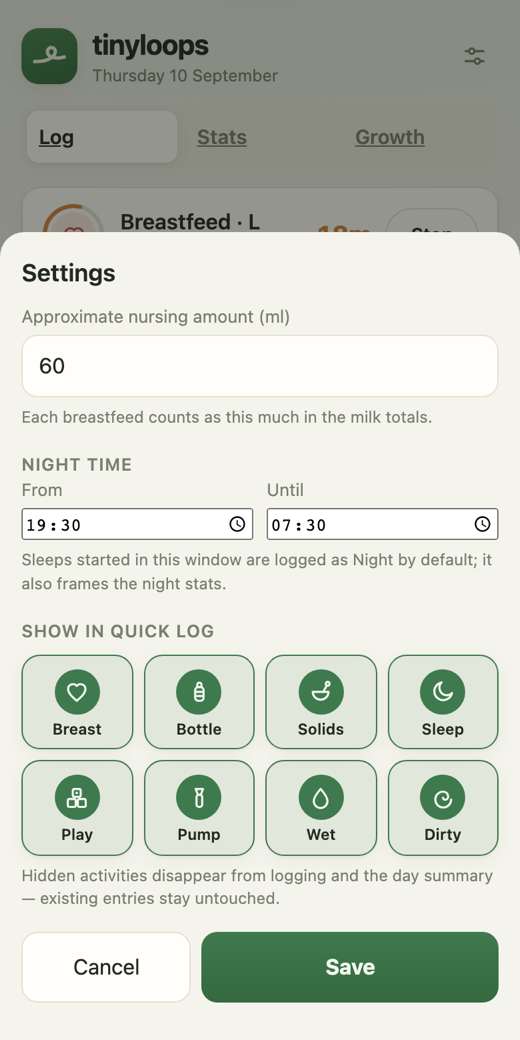
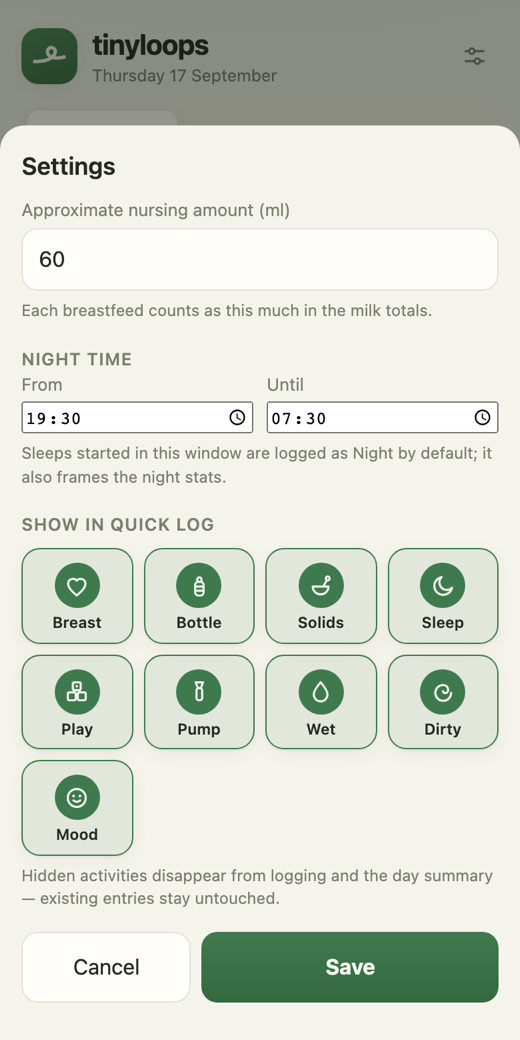
mood feature

diff --git a/server/views.js b/server/views.js
@@ -20,6 +20,14 @@ export const TYPES = {
   pump:   { label: 'Pump',              short: 'Pump',    emoji: '🥛', timed: false },
   wet:    { label: 'Wet nappy',         short: 'Wet',     emoji: '💧', timed: false },
   dirty:  { label: 'Dirty nappy',       short: 'Dirty',   emoji: '💩', timed: false },
+  mood:   { label: 'Day mood',          short: 'Mood',    emoji: '😊', timed: false },
+};
+
+// how the day went, entered once towards bedtime; side carries the verdict
+export const MOODS = {
+  good:  { emoji: '😊', word: 'a good day' },
+  mixed: { emoji: '😐', word: 'a mixed day' },
+  bad:   { emoji: '😞', word: 'a hard day' },
 };
 const ALL_TYPES = Object.keys(TYPES);
 
@@ -142,6 +150,8 @@ function eventDetails(e) {
   } else if (e.type === 'sleep') {
     // naps are the unmarked default — only 'night' is worth a word
     if (e.side === 'night') parts.push('night');
+  } else if (e.type === 'mood') {
+    if (MOODS[e.side]) parts.push(`${MOODS[e.side].emoji} ${MOODS[e.side].word}`);
   } else if (e.side) parts.push(sideName(e.side));
   if (e.type === 'bottle') {
     if (e.amountMl) parts.push(`${e.amountMl}ml milk`);
@@ -355,7 +365,23 @@ function summaryRows(events, s, en, assumedMl, nowWall, isToday) {
       [(wet || dirty) ? `${wet} wet · ${dirty} dirty` : '']);
   }
 
+  // how the day went — newest mood entry of the day wins (events are
+  // newest-first), so a corrected verdict overrides the earlier one
+  const mood = of('mood').find((e) => MOODS[e.side]);
+  if (mood) {
+    pushRow('mood', '😊', 'Day mood', '',
+      [`${MOODS[mood.side].emoji} ${MOODS[mood.side].word}`, mood.notes || '']);
+  }
+
   return rows;
+}
+
+/** The newest mood verdict logged for the day starting at `s`, as its
+ *  emoji — what the band rows show at their right edge. */
+function dayMood(events, s) {
+  const e = events.find((x) => x.type === 'mood' && MOODS[x.side] &&
+    x.startWall != null && x.startWall >= s && x.startWall < s + MS_PER_DAY);
+  return e ? MOODS[e.side].emoji : null;
 }
 
 function buildSummary(events, settings, nowWall) {
@@ -386,6 +412,7 @@ function buildSummary(events, settings, nowWall) {
       date: wallMsToDate(s),
       name: fmtDay(s, nowWall),
       today: i === 0,
+      mood: dayMood(events, s),
       ...(i > 0 && { rows: summaryRows(events, s, en, assumedMl, nowWall, false) }),
     });
   }
@@ -607,6 +634,7 @@ export function buildRhythm(events, settings, nowWall, fromWall, toWall) {
       spans: sleepSegments(events, s, s + MS_PER_DAY, nowWall),
       feeds: feedMinutes(events, s, s + MS_PER_DAY),
       today: s === today,
+      mood: dayMood(events, s),
     });
   }
   // hide the bands when the picked range holds nothing to draw

diff --git a/web/src/components/QuickLog.jsx b/web/src/components/QuickLog.jsx
@@ -1,6 +1,6 @@
 import { useEffect, useState } from 'react';
 import { api, localNowIso } from '../api.js';
-import { SideSeg, EatenSeg, SleepSeg } from './SideSeg.jsx';
+import { SideSeg, EatenSeg, SleepSeg, MoodSeg } from './SideSeg.jsx';
 import { IconChip } from './icons.jsx';
 
 const numOrNull = (v) => (v.trim() === '' ? null : Number(v));
@@ -19,6 +19,7 @@ export function QuickLog({ home, run, onError, onLogged }) {
   const [eaten, setEaten] = useState('');
   const [sleepKind, setSleepKind] = useState(''); // '' = nap
   const [sleepKindTouched, setSleepKindTouched] = useState(false);
+  const [mood, setMood] = useState('');
   const [foods, setFoods] = useState(() => new Set());
   const [allFoods, setAllFoods] = useState(false);
   const [bottleBm, setBottleBm] = useState('');
@@ -68,7 +69,7 @@ export function QuickLog({ home, run, onError, onLogged }) {
 
   function reset() {
     setSide(''); setSideTouched(false); setEaten('');
-    setSleepKind(''); setSleepKindTouched(false);
+    setSleepKind(''); setSleepKindTouched(false); setMood('');
     setFoods(new Set()); setAllFoods(false);
     setBottleBm(''); setBottleF(''); setAmount(''); setNotes('');
     setEarlier(false); setStartInput(''); setDurInput('');
@@ -78,6 +79,10 @@ export function QuickLog({ home, run, onError, onLogged }) {
     const p = { type, notes: notes.trim() };
     if (type === 'feed') p.side = side;
     if (type === 'sleep') p.side = sleepKind;
+    if (type === 'mood') {
+      if (!mood) return onError('How was the day — good, mixed or hard?');
+      p.side = mood;
+    }
     if (type === 'solid') {
       p.side = eaten;
       // chips + anything typed → the same comma-separated food string
@@ -148,6 +153,13 @@ export function QuickLog({ home, run, onError, onLogged }) {
         </>
       )}
 
+      {type === 'mood' && (
+        <>
+          <div className="side-hint">How was the baby’s day?</div>
+          <MoodSeg value={mood} onChange={setMood} />
+        </>
+      )}
+
       {type === 'bottle' && (
         <div>
           <label className="f">Breast milk (ml)
@@ -211,8 +223,8 @@ export function QuickLog({ home, run, onError, onLogged }) {
       )}
 
       <input type="text" value={notes}
-        placeholder={type === 'solid'
-          ? 'Something else? e.g. mango' : 'Notes (optional)'}
+        placeholder={type === 'solid' ? 'Something else? e.g. mango'
+          : type === 'mood' ? 'What made it so? (optional)' : 'Notes (optional)'}
         onChange={(e) => setNotes(e.target.value)} />
       <button id="goBtn" className="primary" disabled={busy} onClick={submit}>
         {busy ? 'Saving…' : goLabel}

diff --git a/test/views.test.js b/test/views.test.js
@@ -496,3 +496,36 @@ describe('buildExplore empty state', () => {
     expect(off.note).toBe(null);
   });
 });
+
+describe('day mood', () => {
+  it('validates its own vocabulary', async () => {
+    const { eventParams } = await import('../server/validate.js');
+    expect(eventParams({ type: 'mood', start: '2026-08-29T21:00', side: 'good' }).side).toBe('good');
+    expect(eventParams({ type: 'mood', start: '2026-08-29T21:00', side: 'L' }).side).toBe('');
+  });
+
+  it('shows in the summary rows and marks band days with its emoji', () => {
+    const { summary } = buildHome(newestFirst([
+      ev('mood', '2026-08-29T13:50', { side: 'mixed', notes: 'teething' }),
+      ev('mood', '2026-08-29T13:00', { side: 'good' }), // corrected → newest wins
+      ev('mood', '2026-08-28T21:00', { side: 'bad' }),
+      ev('sleep', '2026-08-29T10:00', { durationMin: 60 }),
+    ]), SETTINGS, NOW);
+    const row = summary.rows.find((r) => r.label === 'Day mood');
+    expect(row.value).toBe('😐 a mixed day · teething');
+    expect(summary.days[6].mood).toBe('😐');   // today
+    expect(summary.days[5].mood).toBe('😞');   // yesterday
+    expect(summary.days[4].mood).toBe(null);
+    // paging back shows the same row layout, mood included
+    expect(summary.days[5].rows.find((r) => r.label === 'Day mood').value)
+      .toBe('😞 a hard day');
+  });
+
+  it('rides on the rhythm days for the stats bands', () => {
+    const r = buildRhythm(newestFirst([
+      ev('sleep', '2026-08-28T20:00', { durationMin: 600, side: 'night' }),
+      ev('mood', '2026-08-28T21:00', { side: 'good' }),
+    ]), SETTINGS, NOW, isoToWallMs('2026-08-23'), isoToWallMs('2026-08-29'));
+    expect(r.days.find((d) => d.date === '2026-08-28').mood).toBe('😊');
+  });
+});

diff --git a/web/src/components/EditModal.jsx b/web/src/components/EditModal.jsx
@@ -1,6 +1,6 @@
 import { useState } from 'react';
 import { api } from '../api.js';
-import { SideSeg, EatenSeg, SleepSeg } from './SideSeg.jsx';
+import { SideSeg, EatenSeg, SleepSeg, MoodSeg } from './SideSeg.jsx';
 
 const numOrNull = (v) => (String(v).trim() === '' ? null : Number(v));
 
@@ -24,7 +24,7 @@ export function EditModal({ raw, types, run, onError, onClose, onToast }) {
     // side carries the nursing side for feeds, the eaten amount for solids
     // and night-vs-nap for sleeps; the server validates each type's own
     // vocabulary
-    const keepSide = type === 'feed' || type === 'solid' || type === 'sleep';
+    const keepSide = type === 'feed' || type === 'solid' || type === 'sleep' || type === 'mood';
     const p = { id: raw.id, type, start, notes: notes.trim(), side: keepSide ? side : '' };
     if (meta.timed) {
       if (numOrNull(dur) != null) p.durationMin = numOrNull(dur);
@@ -60,6 +60,7 @@ export function EditModal({ raw, types, run, onError, onClose, onToast }) {
         {type === 'feed' && <SideSeg value={side} onChange={setSide} />}
         {type === 'solid' && <EatenSeg value={side} onChange={setSide} />}
         {type === 'sleep' && <SleepSeg value={side} onChange={setSide} />}
+        {type === 'mood' && <MoodSeg value={side} onChange={setSide} />}
 
         {type === 'bottle' && (
           <div>

diff --git a/web/src/components/charts/Rhythm.jsx b/web/src/components/charts/Rhythm.jsx
@@ -92,7 +92,10 @@ function WeekBands({ days, nowMin, labelStep = 1 }) {
   const rowH = nDays <= 7 ? 15 : nDays <= 21 ? 11 : 8;
   const gap = nDays <= 7 ? 12 : nDays <= 21 ? 6 : 3;
   const dotR = nDays <= 7 ? 3.4 : nDays <= 21 ? 2.7 : 2.1;
-  const W = 380, x0 = 44, x1 = W - 8;
+  // day-mood emoji sit to the right of the rows; reserve the gutter only
+  // when at least one day has a verdict
+  const anyMood = days.some((day) => day.mood);
+  const W = 380, x0 = 44, x1 = W - (anyMood ? 26 : 8);
   const H = 20 + nDays * (rowH + gap);
   const X = (min) => x0 + (min / MIN_DAY) * (x1 - x0);
   return (
@@ -133,6 +136,10 @@ function WeekBands({ days, nowMin, labelStep = 1 }) {
             {day.today && (
               <line x1={X(nowMin)} y1={y - 3} x2={X(nowMin)} y2={y + rowH + 3}
                 stroke="var(--warm)" strokeWidth="2" strokeLinecap="round" />
+            )}
+            {day.mood && (
+              <text x={x1 + 6} y={y + rowH / 2 + Math.min(rowH, 12) / 2.4}
+                fontSize={Math.min(rowH + 2, 13)}>{day.mood}</text>
             )}
           </g>
         );

diff --git a/web/src/components/icons.jsx b/web/src/components/icons.jsx
@@ -33,6 +33,7 @@ const PATHS = {
   pump: <><path d="M8.5 3.5h7L13.4 9h-2.8Z" /><rect x="9.3" y="9" width="5.4" height="11.5" rx="2.2" /></>,
   wet: <path d="M12 3.5C12 3.5 5.5 11 5.5 15a6.5 6.5 0 0 0 13 0C18.5 11 12 3.5 12 3.5Z" />,
   dirty: <path d="M19.5 13.5a7.5 7.5 0 1 1-7.5-7.5 4.7 4.7 0 0 1 4.7 4.7 3 3 0 0 1-3 3 1.9 1.9 0 0 1-1.9-1.9" />,
+  mood: <><circle cx="12" cy="12" r="8.5" /><path d="M9 10.2h.01M15 10.2h.01" strokeWidth="2.6" /><path d="M8.8 14.4q3.2 2.6 6.4 0" /></>,
   // summary-row extras
   baby: <><circle cx="12" cy="13" r="7.8" /><path d="M9.3 12.2h.01M14.7 12.2h.01" strokeWidth="2.6" /><path d="M9.4 15.6q2.6 2 5.2 0M12 5.2c0-1.6 1-2.2 2.1-2.2" /></>,
   milk: <><path d="M8 3.5h8l-1.3 15.6a2.3 2.3 0 0 1-2.3 2.1h-.8a2.3 2.3 0 0 1-2.3-2.1Z" /><path d="M9 10.5h6" /></>,

diff --git a/server/demo.js b/server/demo.js
@@ -98,6 +98,14 @@ function generateDemo(nowWall) {
     const startWall = today - day * MS_PER_DAY - 3.2 * 3600000 + (day % 3) * 720000;
     add('sleep', (nowWall - startWall) / 3600000,
       { durationMin: 560 + (day % 4) * 15, side: 'night' });
+    // an end-of-day mood for every finished day (today's isn't in yet)
+    if (day > 0) {
+      const moodWall = today - (day - 1) * MS_PER_DAY - 3 * 3600000; // ~21:00
+      add('mood', (nowWall - moodWall) / 3600000, {
+        side: ['good', 'good', 'mixed', 'good', 'bad'][day % 5],
+        notes: day % 5 === 4 ? 'teething, grumpy afternoon' : '',
+      });
+    }
   }
   out.sort((a, b) => b.startWall - a.startWall);
   return out;

diff --git a/test/e2e/smoke.spec.js b/test/e2e/smoke.spec.js
@@ -11,7 +11,8 @@ test('demo log view renders the tracker', async ({ page }) => {
   // the 24h day strip inside the summary widget, pageable to previous days
   await expect(page.locator('#summary .day-band')).toBeVisible();
   await page.getByRole('button', { name: 'Previous day' }).click();
-  await expect(page.locator('#summary .day-name')).toHaveText('Yesterday');
+  // the name may carry a day-mood emoji ("Yesterday 😊")
+  await expect(page.locator('#summary .day-name')).toContainText('Yesterday');
   await expect(page.locator('#summary .day-band')).toBeVisible();
 });
 

diff --git a/web/src/components/SideSeg.jsx b/web/src/components/SideSeg.jsx
@@ -34,3 +34,11 @@ const SLEEP_KIND = [['', 'Nap'], ['night', 'Night']];
 export function SleepSeg({ value, onChange }) {
   return <Seg options={SLEEP_KIND} value={value} onChange={onChange} />;
 }
+
+// How the day went, entered towards bedtime. Same column again — the server
+// accepts good/mixed/bad only for mood entries.
+const MOOD_OPTS = [['good', '😊 Good'], ['mixed', '😐 Mixed'], ['bad', '😞 Hard']];
+
+export function MoodSeg({ value, onChange }) {
+  return <Seg options={MOOD_OPTS} value={value} onChange={onChange} />;
+}

diff --git a/web/src/components/DaySummary.jsx b/web/src/components/DaySummary.jsx
@@ -23,7 +23,7 @@ export function DaySummary({ summary, onEditNursing }) {
           <div className="day-nav">
             <button aria-label="Previous day" disabled={idx === 0}
               onClick={() => setIdx(idx - 1)}>‹</button>
-            <span className="day-name">{day.name}</span>
+            <span className="day-name">{day.name}{day.mood ? ` ${day.mood}` : ''}</span>
             <button aria-label="Next day" disabled={idx === days.length - 1}
               onClick={() => setIdx(idx + 1)}>›</button>
           </div>

diff --git a/web/src/styles.css b/web/src/styles.css
@@ -91,6 +91,7 @@ body {
 .icn.t-nappies { background: rgba(63, 163, 208, .15);  color: #2f88b3; }
 .icn.t-dirty   { background: rgba(138, 106, 82, .16);  color: #7a5c44; }
 .icn.t-baby    { background: rgba(207, 131, 64, .16);  color: #b06f31; }
+.icn.t-mood    { background: rgba(184, 134, 63, .16);  color: #a06e2c; }
 .icn.t-solid   { background: rgba(154, 132, 62, .16);  color: #85712c; }
 .icn.t-timer   { background: rgba(63, 122, 78, .14);   color: #3f7a4e; }
 .icn.t-chart   { background: rgba(79, 136, 184, .14);  color: #40749e; }

diff --git a/server/validate.js b/server/validate.js
@@ -100,7 +100,8 @@ export function eventParams(body) {
   // own vocabulary. A sleep without 'night' is a nap and stores '' so the
   // default costs nothing in the sheet.
   const sides = type === 'solid' ? ['taste', 'some', 'lots']
-    : type === 'sleep' ? ['night'] : ['L', 'R', 'both'];
+    : type === 'sleep' ? ['night']
+    : type === 'mood' ? ['good', 'mixed', 'bad'] : ['L', 'R', 'both'];
   const p = {
     type, startWall,
     side: sides.includes(body.side) ? body.side : '',
